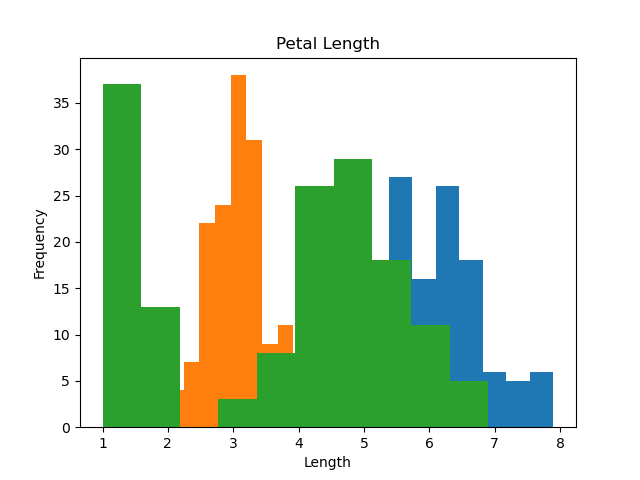
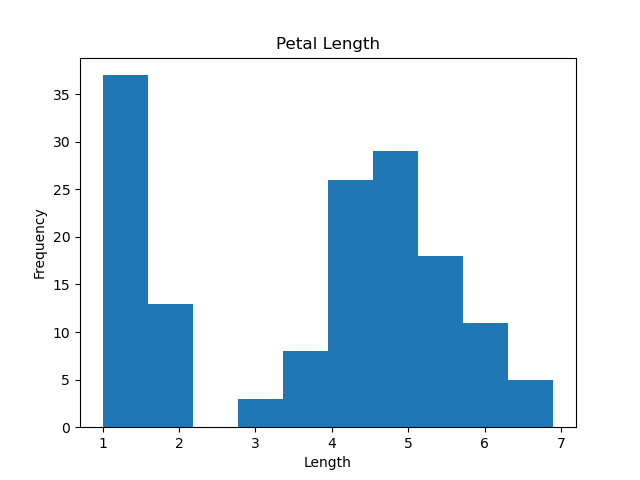
Added plt.clf() to each plot to start each one new

diff --git a/analysis.py b/analysis.py
@@ -45,6 +45,7 @@ with open(FILENAME, 'a') as f:
      for_header = f.write("\nHistogram saved as Sepal_Length_Histogram.png")
 
 #Create a list just for Sepal Width 
+plt.clf()
 sepal_w = []
 for x in iris_csv['Sepal Width']:
     sepal_w.append(x)
@@ -59,6 +60,7 @@ with open(FILENAME, 'a') as f:
 #plt.show()
 
 #Create a list just for Petal Length
+plt.clf()
 petal_l = []
 for x in iris_csv['Petal Length']:
     petal_l.append(x)
@@ -72,6 +74,7 @@ with open(FILENAME, 'a') as f:
      for_header = f.write("\nHistogram saved as Petal_Length_Histogram.png")
 
 #Create a list just for Petal Width 
+plt.clf()
 petal_w = []
 for x in iris_csv['Petal Width']:
     petal_w.append(x)
@@ -90,6 +93,7 @@ with open(FILENAME, 'a') as f:
 #https://stackoverflow.com/questions/6916978/how-do-i-tell-matplotlib-to-create-a-second-new-plot-then-later-plot-on-the-o
 
 print (petal_l)
+plt.clf()
 plt.scatter(petal_l, sepal_l, label='ages v salaries')
 
 #plt.title("Salaries v Ages")
